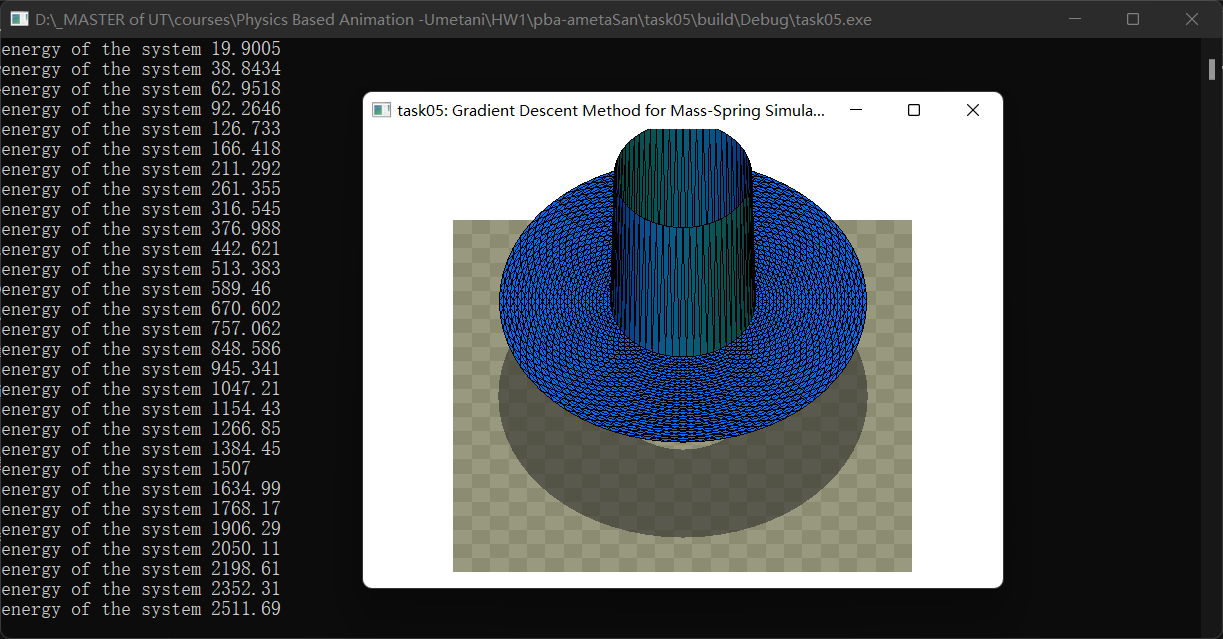
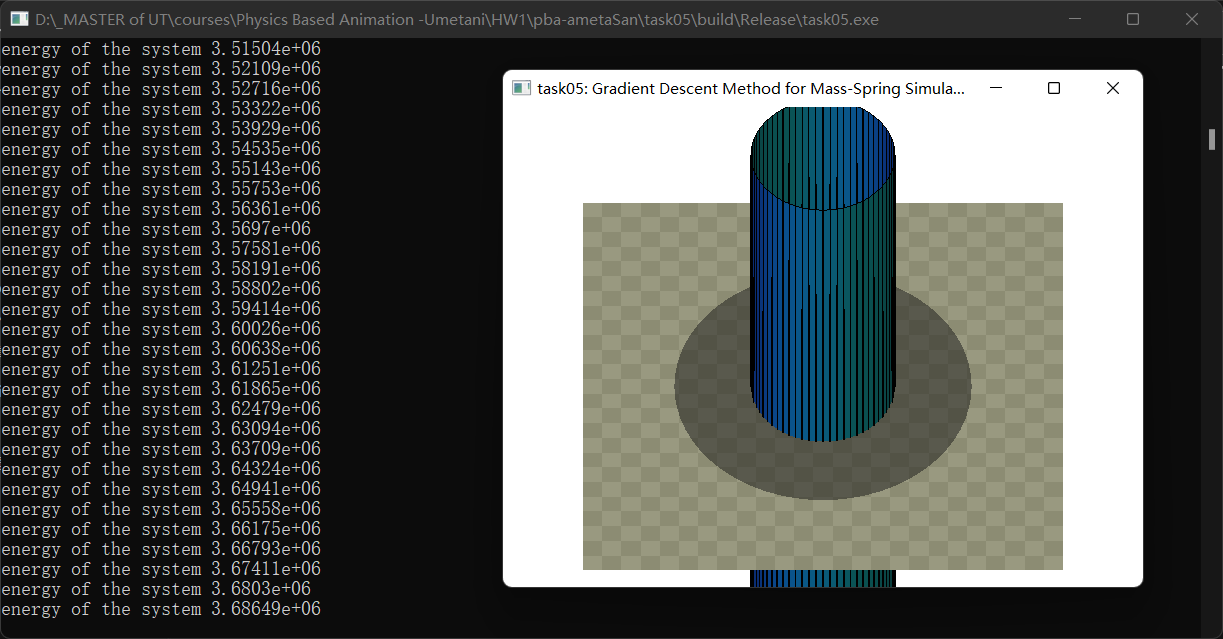
task05 finished - low learning rate

diff --git a/task05/main.cpp b/task05/main.cpp
@@ -75,7 +75,7 @@ float gradient_descent_energy_minimization(
 }
 
 int main() {
-  constexpr float learning_rate = 6.5e-3f;
+  constexpr float learning_rate = 6.5e-3f/10.f;
   constexpr int num_theta = 64;
   const auto[tri2vtx, vtx2xyz_ini] = pba::generate_mesh_annulus3(0.3, 0.8, 32, num_theta);
   const auto line2vtx = pba::lines_of_mesh(tri2vtx, static_cast<int>(vtx2xyz_ini.rows()));

diff --git a/task05/README.md b/task05/README.md
@@ -43,7 +43,7 @@ You may need to adjust the learning rate at `line #76` to reach the convergence.
 
 Write down the converged minimum value of the energy by updating the text below.
 
-***minimum energy of the system = -26.5***
+***minimum energy of the system = -104.8***
 
 
 ## After Doing the Assignment
